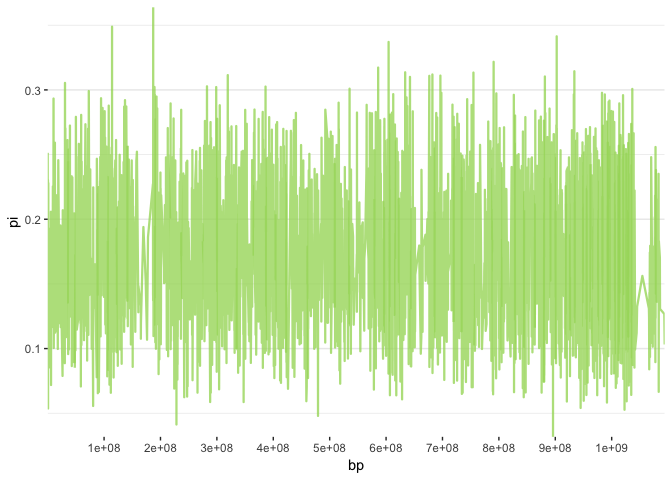
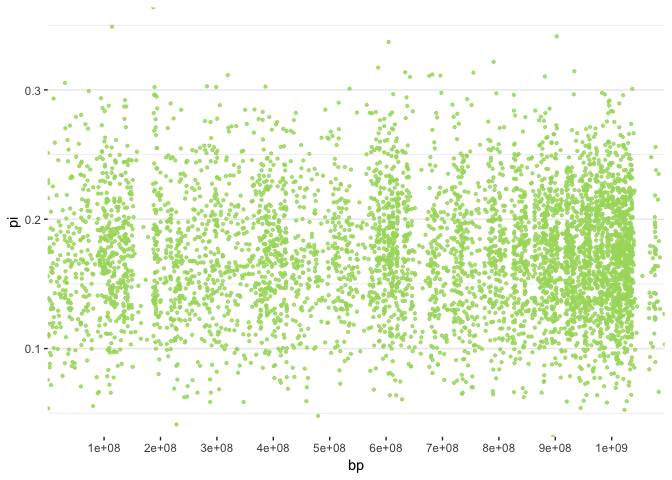
replotting outlier stats as point plots

diff --git a/GBS_plotting_outlier_stats.md b/GBS_plotting_outlier_stats.md
@@ -222,7 +222,7 @@ GENOME.class.split <- neutrality.stats(GENOME.class.split)
 ```
 
 ```
-## opening ff /private/var/folders/5k/7v2qdmp52_7f7krprpl16bb80000gq/T/RtmpgiPQ8a/ff1665615690cd2.ff
+## opening ff /private/var/folders/5k/7v2qdmp52_7f7krprpl16bb80000gq/T/RtmpqxiKbg/ff173e246bc0233.ff
 ```
 
 ```
@@ -435,7 +435,7 @@ Plotting Fst.
 ggplot(outlier_stats, aes(x=BIN_MIDDLE, y=Fst)) +
   
   # Show all points
-  geom_line( aes(color=as.factor(CHROM)), alpha=0.8, size=0.8) +
+  geom_point( aes(color=as.factor(CHROM)), alpha=0.8, size=0.8) +
   scale_color_manual(values = rep(c("#A6D96A"), 80)) +
   
   scale_y_continuous(expand = c(0, 0)) +     # remove space between plot area and x axis
@@ -455,10 +455,18 @@ ggplot(outlier_stats, aes(x=BIN_MIDDLE, y=Fst)) +
   )
 ```
 
+```
+## Warning: Removed 14 rows containing missing values (geom_point).
+```
+
 ![](GBS_plotting_outlier_stats_files/figure-html/unnamed-chunk-20-1.png)<!-- -->
 
 ```r
 ggsave("../selection_stats/Fst.png", width=8, height=4, dpi=300)
+```
+
+```
+## Warning: Removed 14 rows containing missing values (geom_point).
 ```
 
 Plotting pi.
@@ -468,7 +476,7 @@ Plotting pi.
 ggplot(outlier_stats, aes(x=BIN_MIDDLE)) +
   
   # Show all points
-  geom_line(aes(y=NI_pi), alpha=0.8, size=0.8, color="#FDAE61") +
+  geom_point(aes(y=NI_pi), alpha=0.8, size=0.8, color="#FDAE61") +
   scale_y_continuous(expand = c(0, 0)) +     # remove space between plot area and x axis
   scale_x_continuous(expand = c(0, 0), breaks=seq(0, 1100000000, 100000000)) +
   
@@ -482,17 +490,27 @@ ggplot(outlier_stats, aes(x=BIN_MIDDLE)) +
     panel.grid.major.x = element_blank(),
     panel.grid.minor.x = element_blank()
   )
+```
+
+```
+## Warning: Removed 2 rows containing missing values (geom_point).
 ```
 
 ![](GBS_plotting_outlier_stats_files/figure-html/unnamed-chunk-21-1.png)<!-- -->
 
 ```r
 ggsave("../selection_stats/NI_pi.png", width=8, height=4, dpi=300)
+```
 
+```
+## Warning: Removed 2 rows containing missing values (geom_point).
+```
+
+```r
 ggplot(outlier_stats, aes(x=BIN_MIDDLE)) +
   
   # Show all points
-  geom_line(aes(y=SI_pi), alpha=0.8, size=0.8, color="#A6D96A") +
+  geom_point(aes(y=SI_pi), alpha=0.8, size=0.8, color="#A6D96A") +
   scale_y_continuous(expand = c(0, 0)) +     # remove space between plot area and x axis
   scale_x_continuous(expand = c(0, 0), breaks=seq(0, 1100000000, 100000000)) +
   
@@ -506,18 +524,28 @@ ggplot(outlier_stats, aes(x=BIN_MIDDLE)) +
     panel.grid.major.x = element_blank(),
     panel.grid.minor.x = element_blank()
   )
+```
+
+```
+## Warning: Removed 12 rows containing missing values (geom_point).
 ```
 
 ![](GBS_plotting_outlier_stats_files/figure-html/unnamed-chunk-21-2.png)<!-- -->
 
 ```r
 ggsave("../selection_stats/SI_pi.png", width=8, height=4, dpi=300)
+```
 
+```
+## Warning: Removed 12 rows containing missing values (geom_point).
+```
+
+```r
 ggplot(outlier_stats, aes(x=BIN_MIDDLE)) +
   
   # Show all points
-  geom_line(aes(y=NI_pi), alpha=0.8, size=0.8, color="#FDAE61") +
-  geom_line(aes(y=SI_pi), alpha=0.5, size=0.8, color="#A6D96A") +
+  geom_point(aes(y=NI_pi), alpha=0.8, size=0.8, color="#FDAE61") +
+  geom_point(aes(y=SI_pi), alpha=0.5, size=0.8, color="#A6D96A") +
   scale_y_continuous(expand = c(0, 0)) +     # remove space between plot area and x axis
   scale_x_continuous(expand = c(0, 0), breaks=seq(0, 1100000000, 100000000)) +
   
@@ -533,10 +561,24 @@ ggplot(outlier_stats, aes(x=BIN_MIDDLE)) +
   )
 ```
 
+```
+## Warning: Removed 2 rows containing missing values (geom_point).
+```
+
+```
+## Warning: Removed 12 rows containing missing values (geom_point).
+```
+
 ![](GBS_plotting_outlier_stats_files/figure-html/unnamed-chunk-21-3.png)<!-- -->
 
 ```r
 ggsave("../selection_stats/both_pi.png", width=8, height=4, dpi=300)
+```
+
+```
+## Warning: Removed 2 rows containing missing values (geom_point).
+
+## Warning: Removed 12 rows containing missing values (geom_point).
 ```
 
 Then dxy.
@@ -546,7 +588,7 @@ Then dxy.
 ggplot(outlier_stats, aes(x=BIN_MIDDLE, y=dxy)) +
   
   # Show all points
-  geom_line( aes(color=as.factor(CHROM)), alpha=0.8, size=0.8) +
+  geom_point( aes(color=as.factor(CHROM)), alpha=0.8, size=0.8) +
   scale_color_manual(values = rep(c("#FDAE61"), 80)) +
   
   scale_y_continuous(expand = c(0, 0)) +     # remove space between plot area and x axis
@@ -564,10 +606,18 @@ ggplot(outlier_stats, aes(x=BIN_MIDDLE, y=dxy)) +
   )
 ```
 
+```
+## Warning: Removed 14 rows containing missing values (geom_point).
+```
+
 ![](GBS_plotting_outlier_stats_files/figure-html/unnamed-chunk-22-1.png)<!-- -->
 
 ```r
 ggsave("../selection_stats/dxy.png", width=8, height=4, dpi=300)
+```
+
+```
+## Warning: Removed 14 rows containing missing values (geom_point).
 ```
 
 Finally, Tajima's D.
@@ -577,7 +627,7 @@ Finally, Tajima's D.
 ggplot(outlier_stats, aes(x=BIN_MIDDLE)) +
   
   # Show all points
-  geom_line(aes(y=NI_Tajima), alpha=0.8, size=0.8, color="#FDAE61") +
+  geom_point(aes(y=NI_Tajima), alpha=0.8, size=0.8, color="#FDAE61") +
   scale_y_continuous(expand = c(0, 0)) +     # remove space between plot area and x axis
   scale_x_continuous(expand = c(0, 0), breaks=seq(0, 1100000000, 100000000)) +
   
@@ -601,7 +651,7 @@ ggsave("../selection_stats/NI_tajima.png", width=8, height=4, dpi=300)
 ggplot(outlier_stats, aes(x=BIN_MIDDLE)) +
   
   # Show all points
-  geom_line(aes(y=SI_Tajima), alpha=0.8, size=0.8, color="#A6D96A") +
+  geom_point(aes(y=SI_Tajima), alpha=0.8, size=0.8, color="#A6D96A") +
   scale_y_continuous(expand = c(0, 0)) +     # remove space between plot area and x axis
   scale_x_continuous(expand = c(0, 0), breaks=seq(0, 1100000000, 100000000)) +
   
@@ -625,8 +675,8 @@ ggsave("../selection_stats/SI_tajima.png", width=8, height=4, dpi=300)
 ggplot(outlier_stats, aes(x=BIN_MIDDLE)) +
   
   # Show all points
-  geom_line(aes(y=NI_Tajima), alpha=0.8, size=0.8, color="#FDAE61") +
-  geom_line(aes(y=SI_Tajima), alpha=0.5, size=0.8, color="#A6D96A") +
+  geom_point(aes(y=NI_Tajima), alpha=0.8, size=0.8, color="#FDAE61") +
+  geom_point(aes(y=SI_Tajima), alpha=0.5, size=0.8, color="#A6D96A") +
   scale_y_continuous(expand = c(0, 0)) +     # remove space between plot area and x axis
   scale_x_continuous(expand = c(0, 0), breaks=seq(0, 1100000000, 100000000)) +
   
